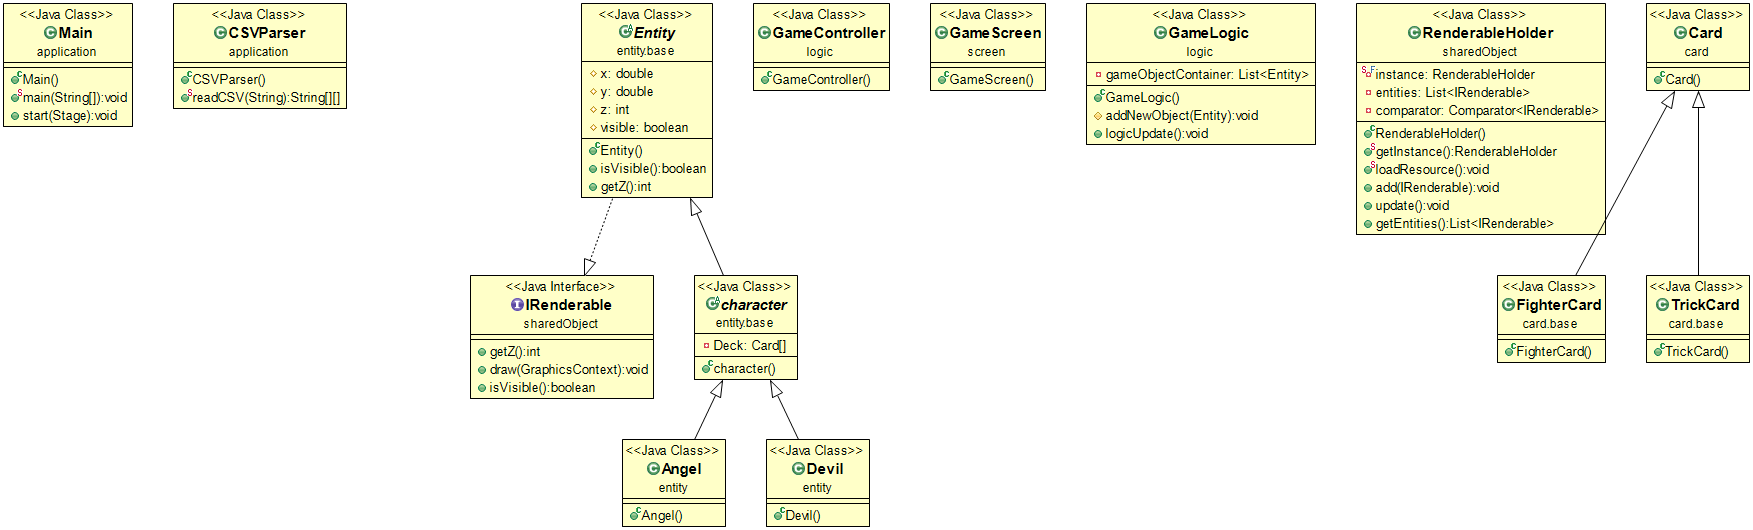
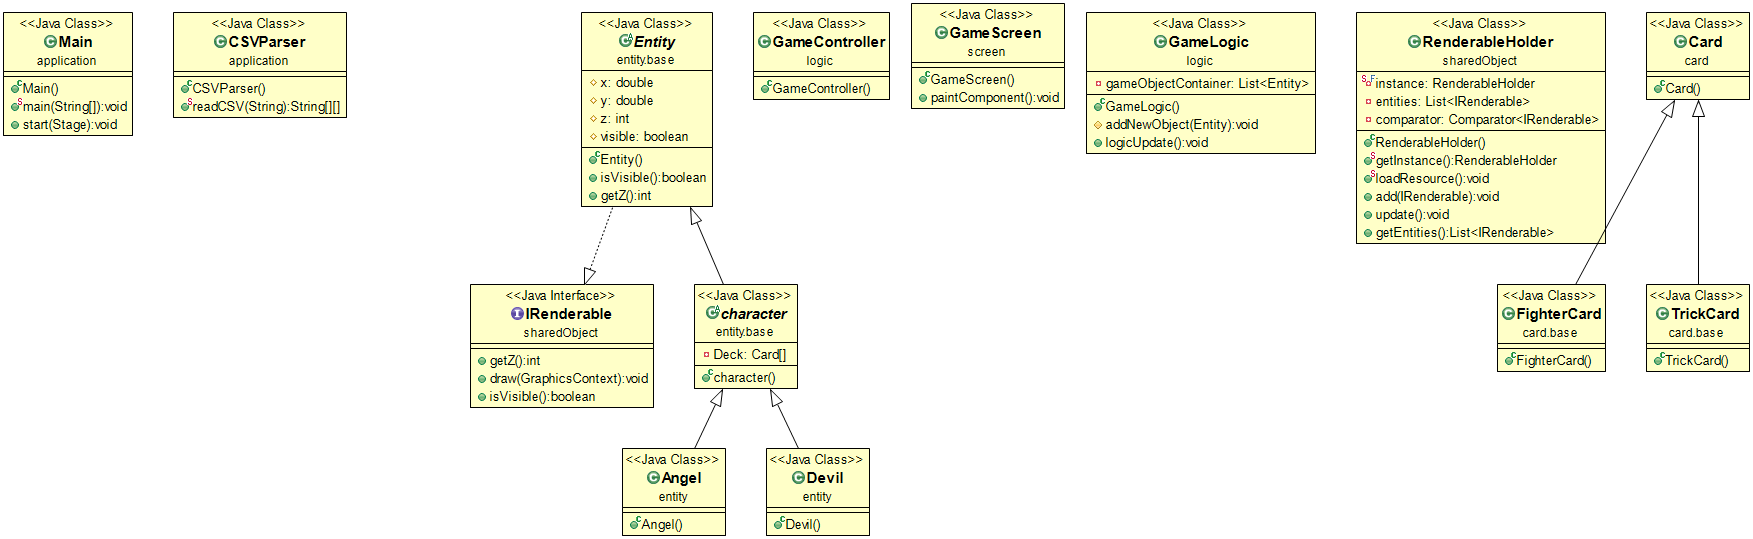
Update GameScreen.java

diff --git a/src/screen/GameScreen.java b/src/screen/GameScreen.java
@@ -1,5 +1,21 @@
 package screen;
 
-public class GameScreen {
+import javafx.scene.canvas.Canvas;
+import javafx.scene.canvas.GraphicsContext;
+import javafx.scene.paint.Color;
+import sharedObject.IRenderable;
+import sharedObject.RenderableHolder;
+
+public class GameScreen extends Canvas {
+
+	public void paintComponent() {
+		GraphicsContext gc = this.getGraphicsContext2D();
+		gc.setFill(Color.BLACK);
+		for (IRenderable entity : RenderableHolder.getInstance().getEntities()) {
+			if (entity.isVisible()) {
+				entity.draw(gc);
+			}
+		}
+	}
 
 }
